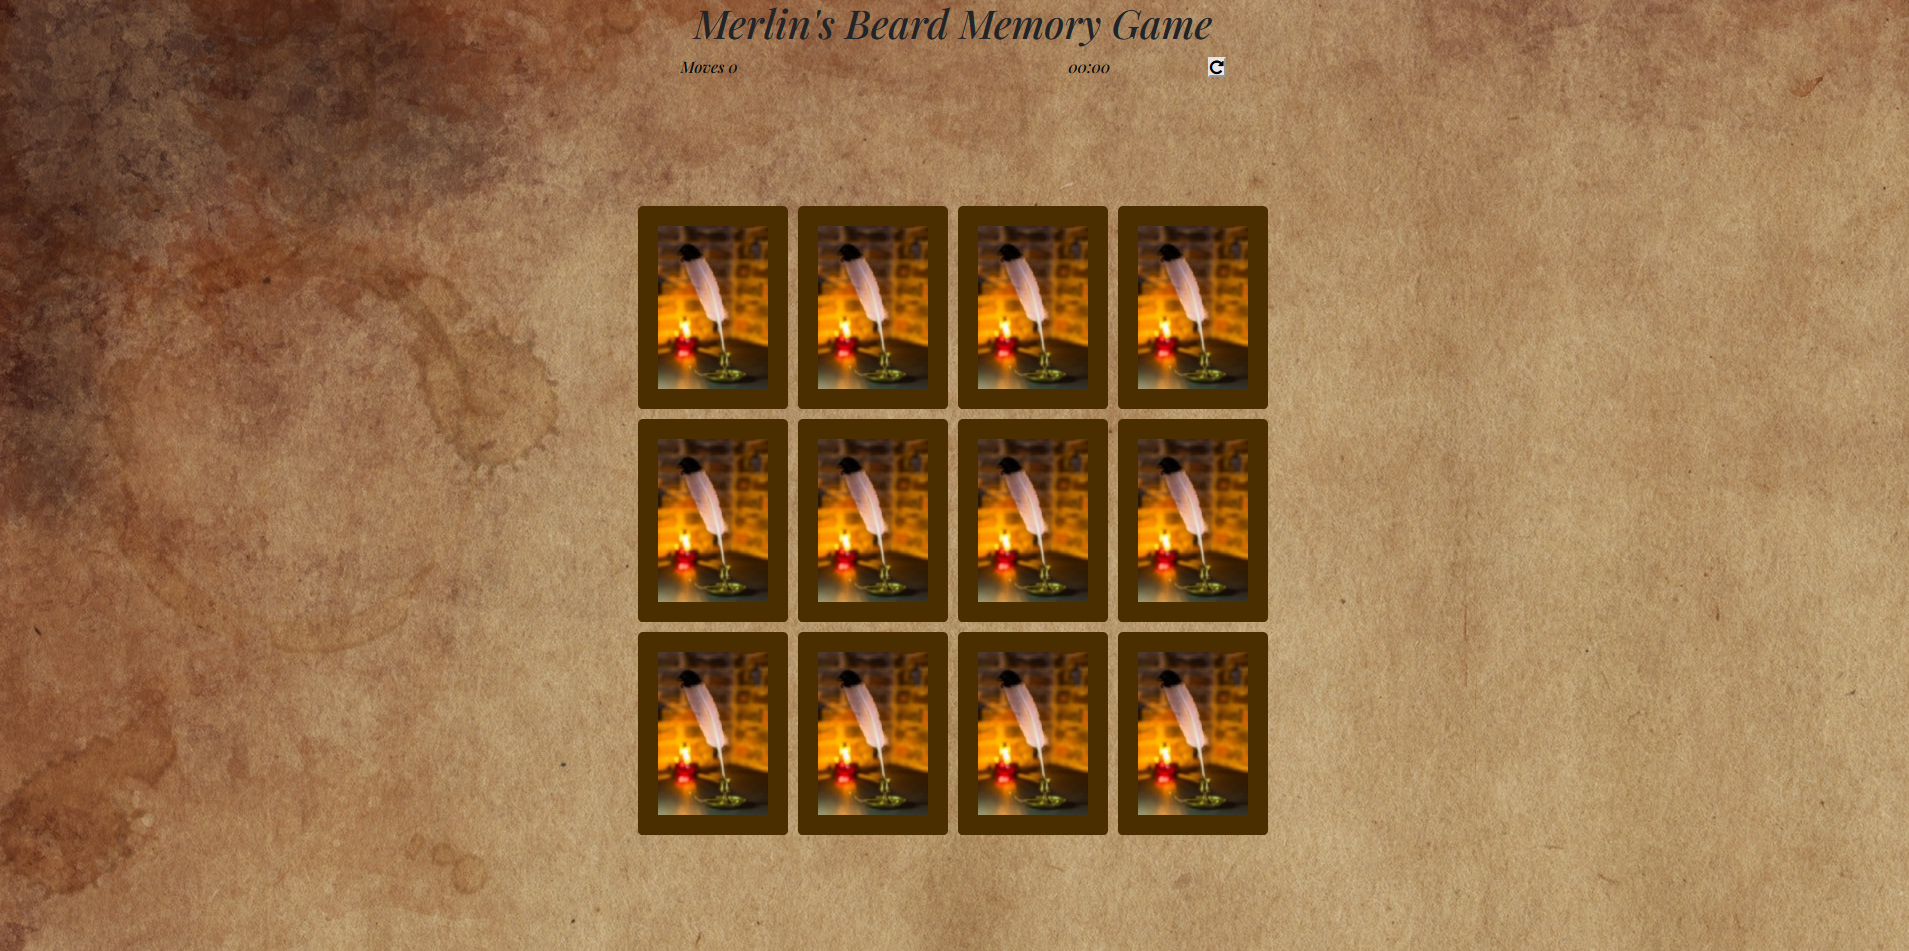
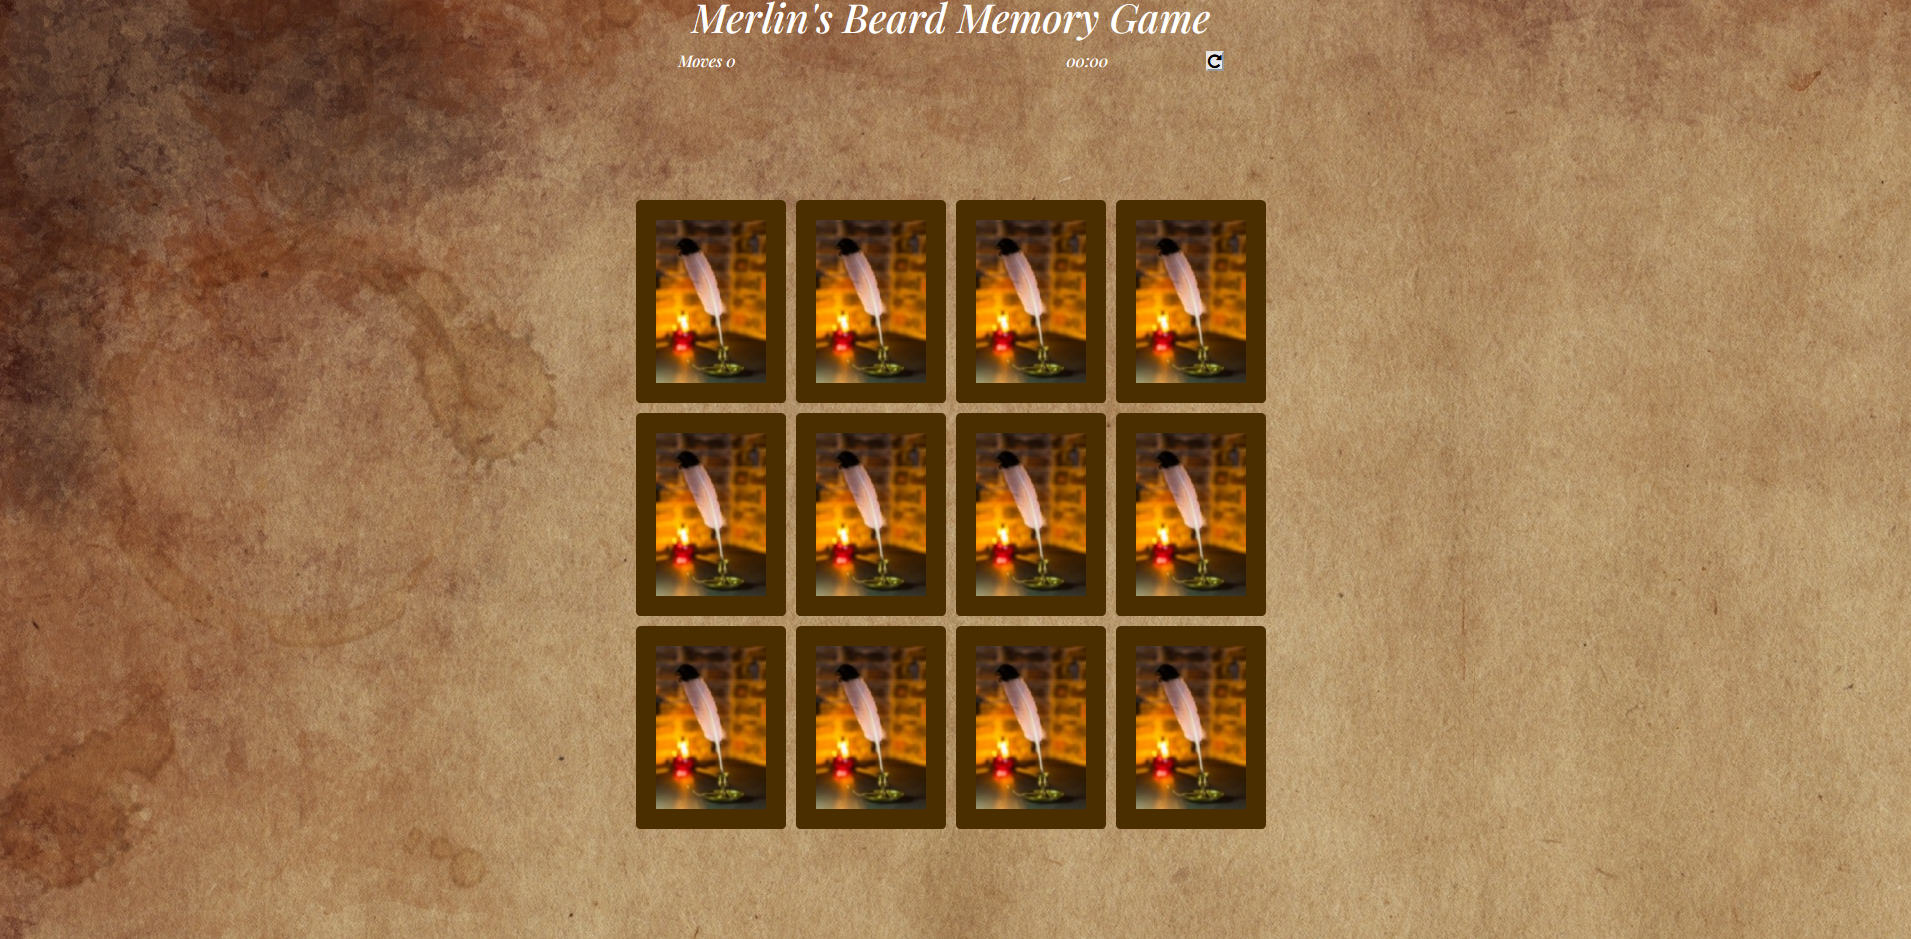
Added testing section in readME

Changed region(s): [[0.34, 0.1853, 0.6799, 0.8956], [0.34, 0.0, 0.649, 0.0927], [0.9272, 0.0618, 0.9581, 0.0927]]

diff --git a/assets/css/style.css b/assets/css/style.css
@@ -13,8 +13,16 @@ body {
 
 h1 {
     font-weight: 400;
+    color: #ffffff;
 }
 
+span {
+    color: #ffffff;
+}
+
+.timer {
+    color: #ffffff;
+}
 
 .container{
     display: flex;
@@ -88,26 +96,22 @@ h1 {
 
 /* Media queries */
 
-@media only screen and (min-device-width: 768px)
-  and (max-device-width: 1024px){
-     .memory-game{
+@media screen and (min-width: 768px)
+  and (max-width: 1024px){
+     .memory-game {
       width: 640px;
       min-height: 640px;
     }
 }
 
-@media only screen
-  and (min-device-width: 375px)
-  and (max-device-width: 812px) {
-    .memory-game{
+@media screen and (max-width: 812px) {
+    .memory-game {
       width: 550px;
       min-height: 550px;
     }
 }
 
-@media only screen
-  and (min-device-width: 320px)
-  and (max-device-width: 568px) {
+@media only screen and (max-width: 568px) {
     .memory-game{
       width: 450px;
       min-height: 400px;

diff --git a/script.js b/script.js
@@ -38,7 +38,7 @@ function checkMatch() {
           Swal.fire({
             title: 'Congratulations!',
             text: 'You won the game!',
-          })
+          });
           clearInterval(timerCtrl); // it will stop the timer
           }
     }  else { 
@@ -73,7 +73,7 @@ function resertBoard() {
     cards.forEach(card => {
         let randomNum = Math.floor(Math.random() * 12);
         card.style.order = randomNum;
-    })
+    });
 })();
 
 cards.forEach(card => card.addEventListener('click', flipCards));

diff --git a/README.md b/README.md
@@ -90,15 +90,67 @@ __Existing Features__
 
 <br>
 
+## Testing
+
+The W3C Markup Validator and W3C CSS Validator Services were used to validate every page of the project to ensure there were no syntax errors in the project.
+
+* [W3C Markup Validator](https://validator.w3.org/ "markup-validator") - [Results](https://validator.w3.org/nu/#textarea "markup-validator-results")
+* [W3C CSS Validator](https://jigsaw.w3.org/css-validator/#validate_by_input "css-validator") - [Results](https://jigsaw.w3.org/css-validator/validator "css-validator-results")
+
+<br>
+
+### Devices and Screen Sizes
+
+The website was extensively tested to make sure every aspect became responsive to the screen size of the devices.
+The browsers that were used for testing are: Microsoft Edge, Google Chrome and Mozilla Firefox.
+To test the website on different devices and different screen sized, the Chrome DevTools was used.
+
+* Laptop with HiDPI screen: 1440x900
+* iPad: 768x1024
+* iPhone 6/7/8 Plus iOS 11: 414x736
+
+<br>
+
+__Testing User Stories from User Experience (UX) Section__
+
+* __First Time Visitor Goals__
+
+    1. As a Player, I want to be able to understand immediately what kind of game I will play.
+
+        * When the player opens the link, they will immediately be brought to the home screen which is the game screen. Upon reading the title, they will notice they will play a memory card game.
+    
+    2. As a Player, I want to know how many moves and how long I played before finishing the game.
+
+        * Underneath the title, the player can see a section with "Moves:.." and a clock which indicate the amount of moves the player has made as well as the time it takes to finish the game.
+
+    <br>
+
+    <h2 align="center">
+    <img src="docs/screenshots/Title.png" alt="title" style="max-width:100%;">
+    </h2>
+    
+    3. As a Player, I want to be able to play the game again.
+
+        * Once the player finishes the game, they will receive a feedback message stating their victory. Once the player clicks on the "OK" button, they will be redirected to the home screen. On the top right corner is a button with a refresh icon. If the player clicks on that button, the game will automatically restart and they can play once more.
+    
+    <br>
+
+    <h2 align="center">
+    <img src="docs/screenshots/game-win.png" alt="game-win" style="max-width:100%;">
+    </h2>
+   
+<br>
+
 ## Known Bugs
 
-* In the game when a user starts the game, the timer does not start for the first click. It will start on the second click.
-* When a user is playing the game on a smaller screen, the memory cards are not 
+* When a user is playing the game on a smaller screen, the memory cards are a little stretched and the cards are not shown entirely on the screen. The user has to scroll a little to the right. However, the user can still select the cards and see which one they clicked on.
+
 <br>
 
 ## Fixed Bugs
 
 * When opening the link for the game, the background for the body would not load and the user would have a white background. This is fixed now and the user will see a background with brown and yellow hues.
+* The timer would not start counting until the player clicked on their second card. This is now fixed and the timer will start when the user clicks on the first card.
 
 <br>
 
